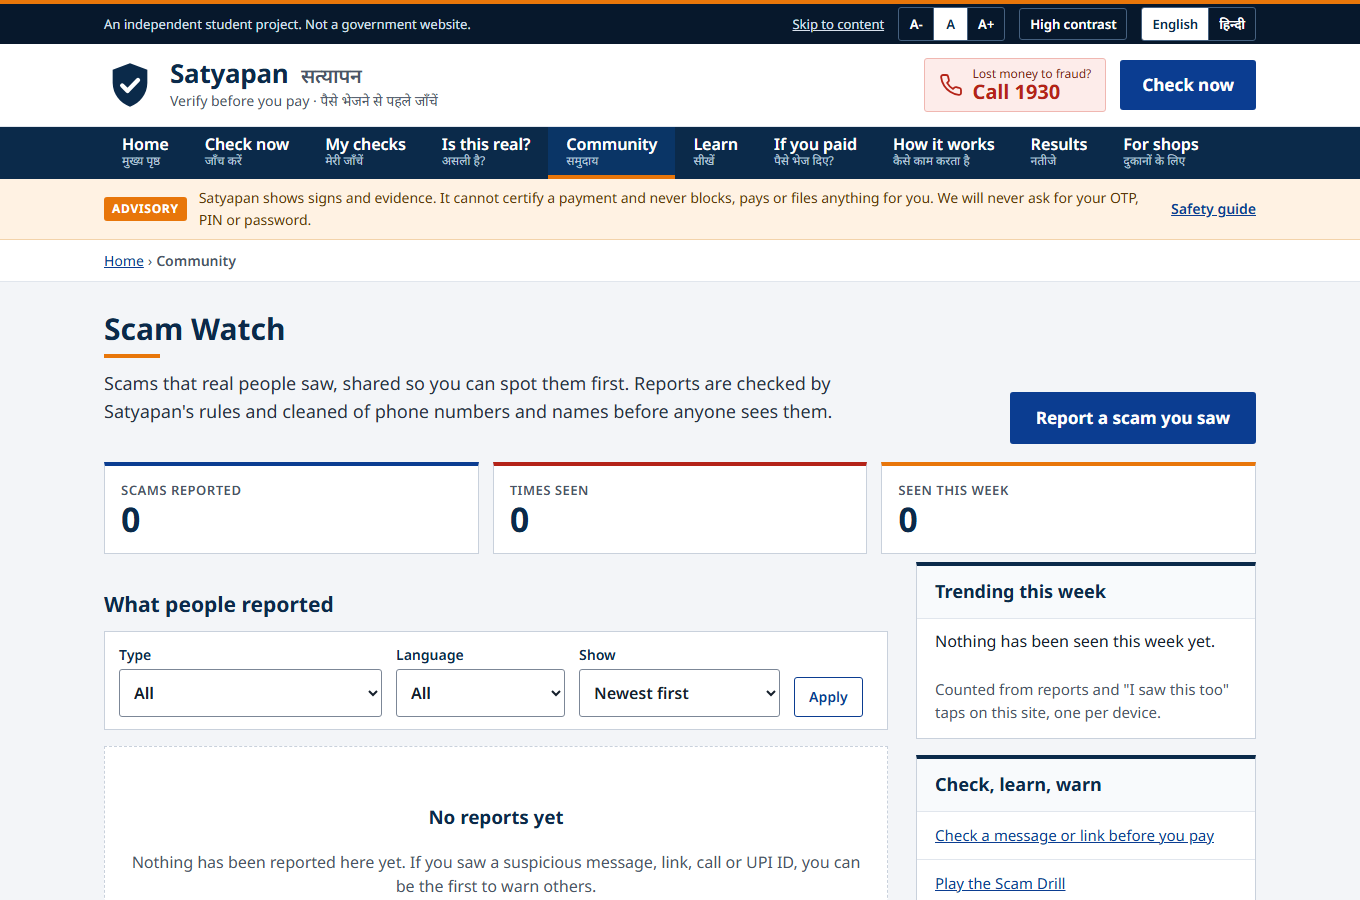
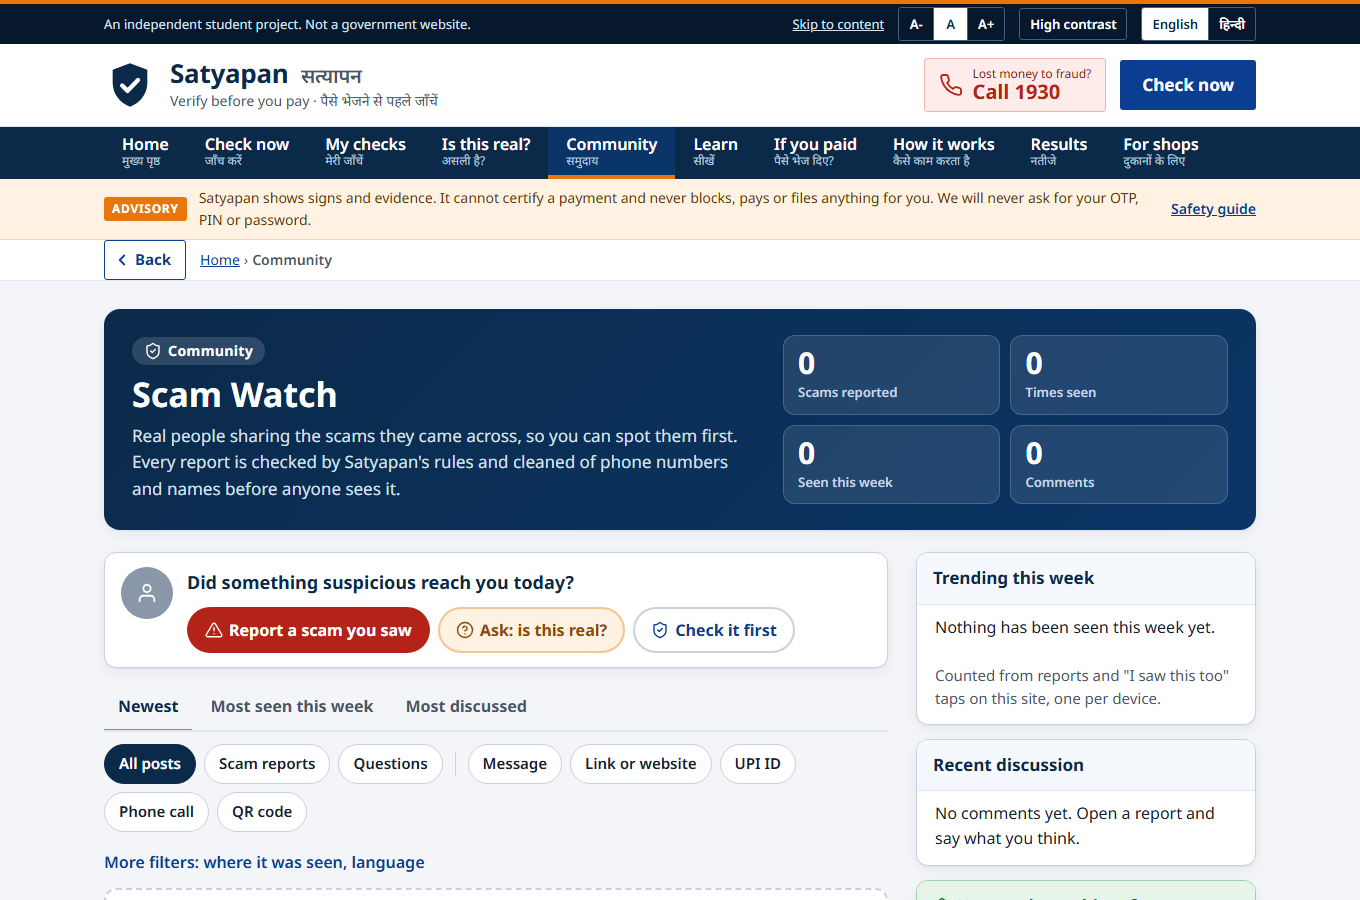
README and community screenshot after merging Tanish's community redesign

diff --git a/README.md b/README.md
@@ -64,7 +64,7 @@ The jury scores each row 1 to 5, weighted. For every row: what it asks, what we 
 | Ask | What we built | Evidence |
 |---|---|---|
 | **Live traction** | Public-site-ready deployment, Telegram bot, shop poster generator with referral counting, pilot sign-ups, and an `/impact` page whose numbers come only from the server's own database with team traffic excluded (`sp_internal` cookie). | `/impact`, `docs/ops.md` |
-| **Awareness and education** | **Scam Watch** (community reports with why-it-was-flagged), lessons in English and Hindi, **Scam Drill** with streaks, badges and a leaderboard, family safe-word card, shareable warning cards. | `/community`, `/learn`, `docs/community.md` |
+| **Awareness and education** | **Scam Watch** (community reports with why-it-was-flagged, discussion under each report, questions to the community, "Share to community" from a result, a Back button on every page), lessons in English and Hindi, **Scam Drill** with streaks, badges and a leaderboard, family safe-word card, shareable warning cards. | `/community`, `/learn`, `docs/community.md` |
 
 ---
 
